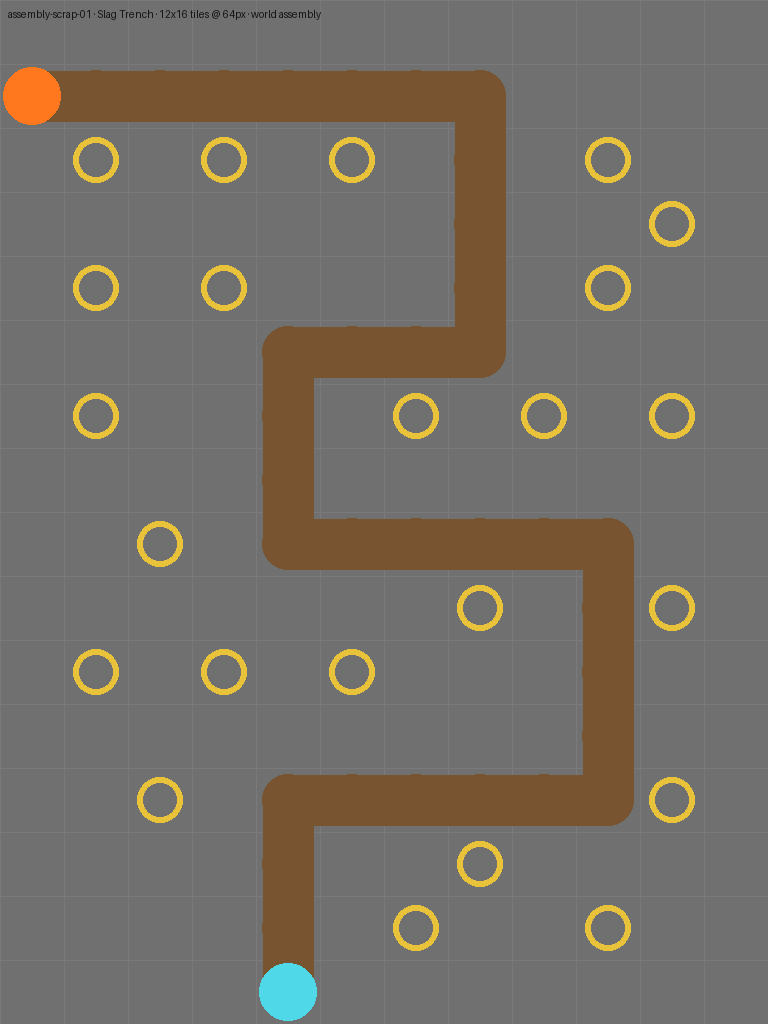
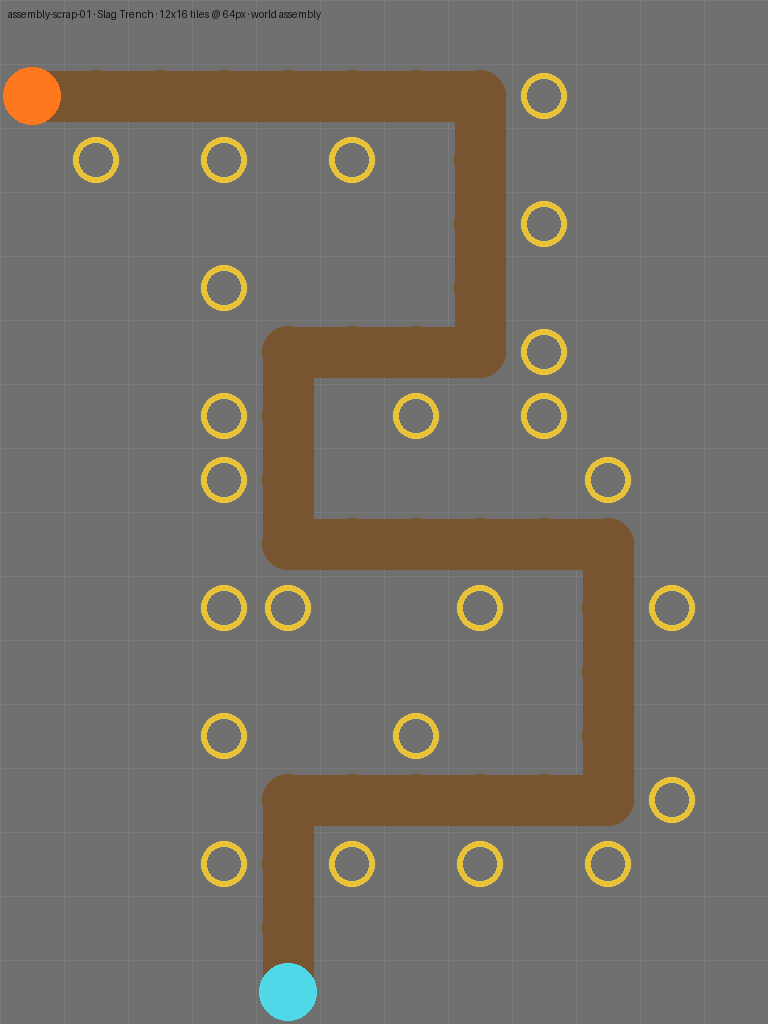
v.0.7.2

diff --git a/src/net/supabase.ts b/src/net/supabase.ts
@@ -1,4 +1,4 @@
-// Extra Terram — src/net/supabase.ts v0.1.0 — the one Supabase client, or null when not configured
+// Extra Terram — src/net/supabase.ts v0.2.0 — tolerates a project URL pasted with a path (the "Invalid path" sign-up error)
 // The game must run with no backend at all (offline builds, a fresh clone, a blocked network), so
 // every caller checks `supabase` for null and falls back to local storage. Only the publishable
 // (anon) key ever ships in the client; the service-role key is never used here or on Netlify.
@@ -6,7 +6,28 @@ import { createClient, type Provider, type SupabaseClient } from '@supabase/supa
 
 const env = import.meta.env as Record<string, string | undefined>;
 
-const url = env.VITE_SUPABASE_URL?.trim();
+/**
+ * The project URL must be the bare origin (https://<ref>.supabase.co). The dashboard also shows the
+ * REST and Auth endpoints (…/rest/v1, …/auth/v1); pasting one of those makes every request hit
+ * "<origin>/rest/v1/auth/v1/signup", which the gateway answers with
+ * "Invalid path specified in request URL". Keep only the origin and say so once in the console.
+ */
+function projectOrigin(raw: string | undefined): string | undefined {
+  const value = raw?.trim();
+  if (!value) return undefined;
+  try {
+    const u = new URL(value.includes('://') ? value : `https://${value}`);
+    if (u.pathname !== '/' || u.search || u.hash) {
+      console.warn(`[extra-terram] VITE_SUPABASE_URL has a path (${u.pathname}); using ${u.origin}. Set it to the bare project URL.`);
+    }
+    return u.origin;
+  } catch {
+    console.warn('[extra-terram] VITE_SUPABASE_URL is not a valid URL; running offline.');
+    return undefined;
+  }
+}
+
+const url = projectOrigin(env.VITE_SUPABASE_URL);
 const key = (env.VITE_SUPABASE_ANON_KEY ?? env.VITE_SUPABASE_PUBLISHABLE_KEY)?.trim();
 
 export const supabase: SupabaseClient | null =
@@ -58,6 +79,8 @@ export function errorMessage(err: unknown): string {
   if (typeof err === 'object' && 'message' in err && typeof (err as { message: unknown }).message === 'string') {
     const m = (err as { message: string }).message;
     if (/fetch|network|failed to/i.test(m)) return 'No connection to the server. Check your network and try again.';
+    if (/invalid path specified/i.test(m)) return 'The server URL in this build is wrong: VITE_SUPABASE_URL must be the bare project URL (https://<ref>.supabase.co), not the REST or Auth endpoint.';
+    if (/no route matched/i.test(m)) return 'The server URL in this build points at the wrong host. Check VITE_SUPABASE_URL.';
     return m;
   }
   return 'Something went wrong.';

diff --git a/HANDOFF.md b/HANDOFF.md
@@ -169,3 +169,10 @@ The round-4 pack is an interim pass; the real repaint of the 16 tower families i
 Verified: lint, typecheck, build; headless phone-size run: login and menu with the lockup over the new art, idle strips still playing between waves, refitted Whirlseed next to Needlespire; zero console errors.
 
 Waiting on the next drop: painted repaints of the 16 families (same filenames → `npm run art-drop`), painted map backgrounds (still open since round 2), and eventually hand-keyed strips.
+
+## v0.7.2 — reachable pads, sign-up URL fix (2026-10-24, later)
+
+- **Every build pad can now reach the path.** The normal and hard maps had pads 2.0–4.1 tiles from the nearest path cell; the shortest attack range in the game is 1.8 tiles, so towers there never fired. Rule now: a pad is at most 1.5 tiles (centre to centre) from a path cell — orthogonally or diagonally adjacent. 49 pads were moved to the nearest free cell that satisfies it (pad counts unchanged: 44 / 23 / 24 / 13), the validator fails the build on any pad beyond 1.5 (`PAD_REACH` in `scripts/validate-content.mjs`), and the backgrounds and layout guides were regenerated from the new grids (`gen-background.py`, `gen-guides.py`). The sim smoke still wins all 16 level × race pairs. Difficulty on the harder maps comes from fewer pads and longer stretches of path without them, not from pads that cannot fire.
+- **"Invalid path specified in request URL" on Create account** is Supabase's gateway refusing a URL it does not route: it happens when `VITE_SUPABASE_URL` carries a path — typically the REST endpoint (`…/rest/v1`) or the Auth endpoint (`…/auth/v1`) copied from the Data API page instead of the bare project URL. `src/net/supabase.ts` now keeps only the origin of whatever was pasted (and warns in the console), and the login screen explains the fix if the message ever reaches it. `.env.example` and the guide say "bare project URL" in so many words. Fix your `.env` and the Netlify variable to `https://<ref>.supabase.co`, then redeploy with a cleared cache.
+
+Verified: lint, typecheck, validate (the rule rejects a test pad at 2.0 tiles), sim smoke, build with a deliberately wrong URL (`…/rest/v1`) → warning logged, origin used, no errors; headless screenshots of the three harder maps with the new pads.

diff --git a/supabase/README.md b/supabase/README.md
@@ -40,7 +40,7 @@ Dashboard → **Project Settings → API Keys** → "Publishable and secret API 
 
 | Variable | Value |
 | --- | --- |
-| `VITE_SUPABASE_URL` | Project URL, e.g. `https://abcdefghijklmnop.supabase.co` (Project Settings → Data API) |
+| `VITE_SUPABASE_URL` | The bare project URL only: `https://<ref>.supabase.co` — nothing after `.co`. The Data API page also lists the REST endpoint (`…/rest/v1`) and the Auth endpoint (`…/auth/v1`); pasting either one breaks every call with "Invalid path specified in request URL". The client now strips a path and warns in the console, but set it right. |
 | `VITE_SUPABASE_ANON_KEY` | The **publishable** key (`sb_publishable_…`). The legacy `anon` JWT also works; Supabase is retiring it by the end of 2026, so start with the publishable one. |
 | `VITE_AUTH_PROVIDERS` | **Leave unset for now.** OAuth is parked; sign-in is email + password. Setting it (e.g. `google`) brings the provider buttons back once section 5 is done. |
 
